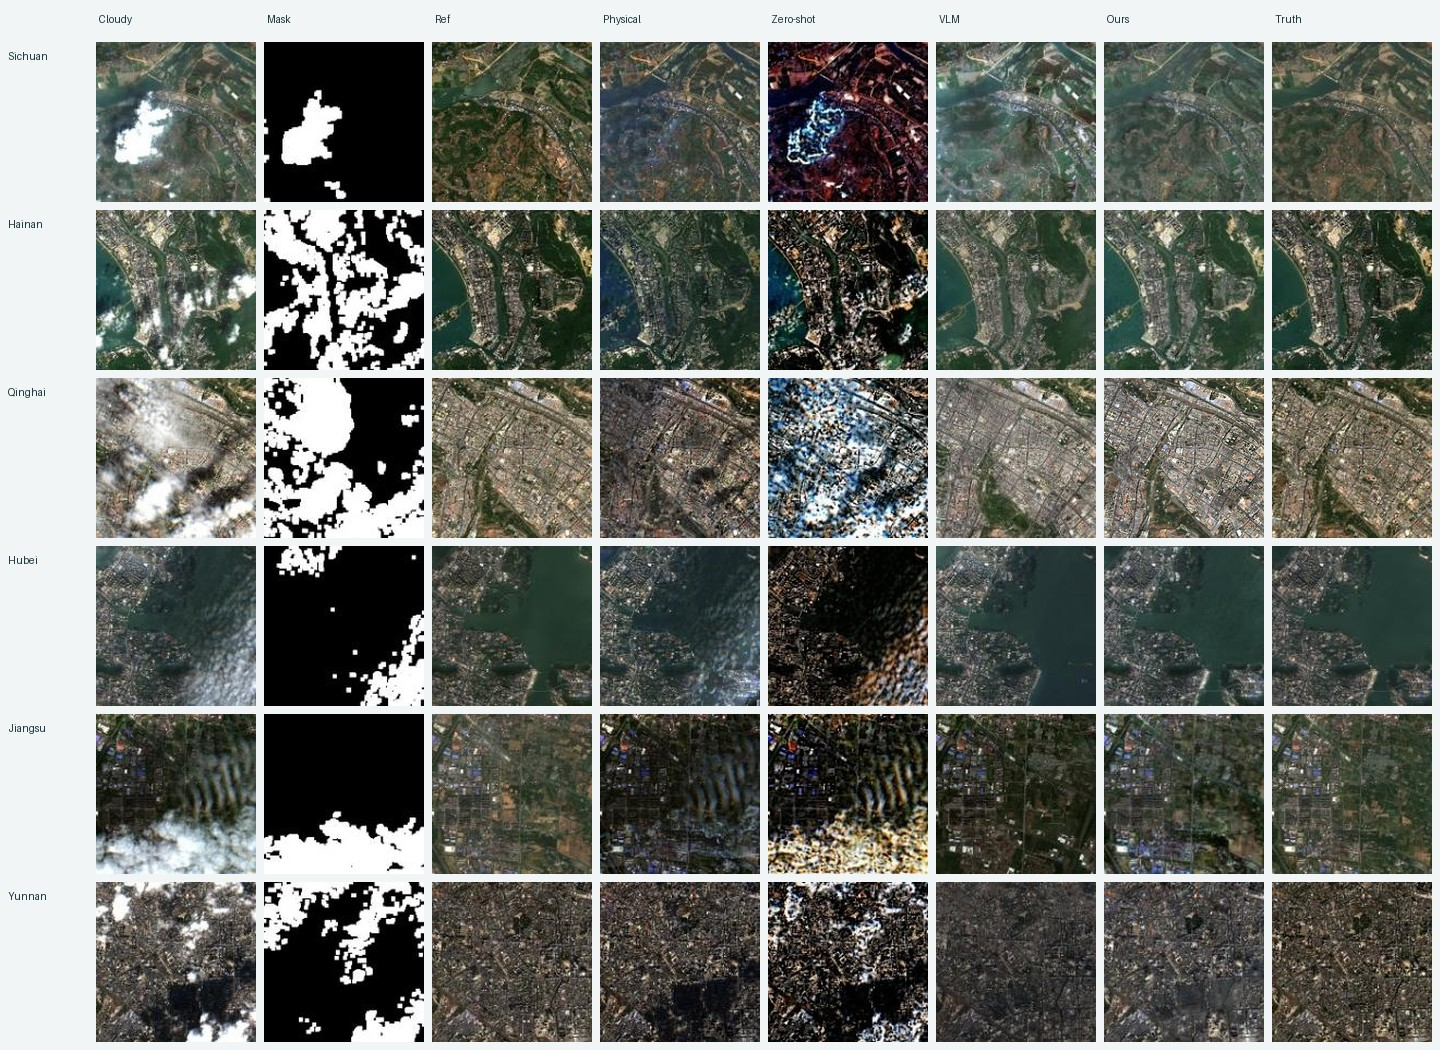
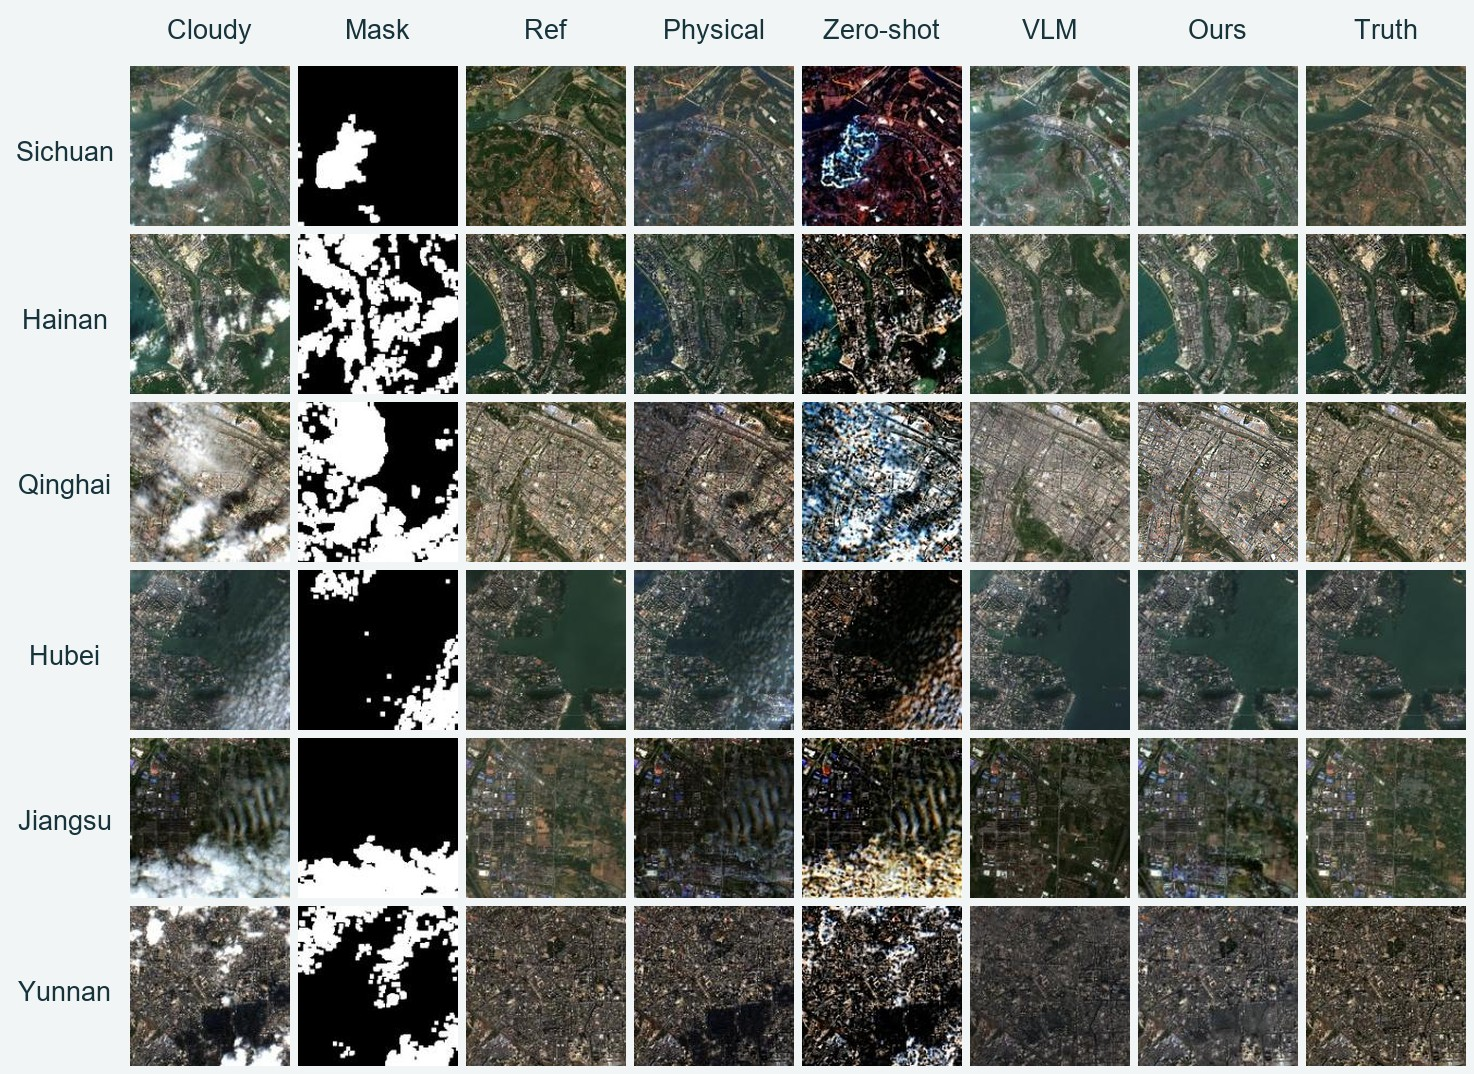
Refine paper page from review comments

diff --git a/docs/index.html b/docs/index.html
@@ -7,6 +7,32 @@
   <title>PhyVLM-CR | Physics-Guided VLM Priors for All-Cloud Removal</title>
   <link rel="stylesheet" href="styles.css">
   <link rel="stylesheet" href="pgcs-alignment.css">
+  <style>
+    .hero { padding-bottom: 50px; }
+    .abstract-section > div > p { text-align: justify; text-justify: inter-word; hyphens: auto; }
+    .method-description { margin-top: 24px; }
+    .metrics { display: block; }
+    .metric-lead { margin: 0 0 18px; }
+    .metric-lead h3 { margin: 6px 0; }
+    .metric-lead p { max-width: none; }
+    .metrics table { min-width: 0; width: 100%; table-layout: fixed; font-size: 13px; }
+    .metrics thead th { white-space: normal; text-align: center; line-height: 1.35; }
+    .metrics tbody td { text-align: center; white-space: nowrap; }
+    .metrics tbody th { text-align: left; }
+    .metrics th, .metrics td { padding: 9px 6px; }
+    .table-note { margin: 12px 0 0; color: var(--muted); font-size: 13px; }
+    .citation-section pre { margin: 0; padding: 23px; overflow-x: auto; border: 1px solid var(--line); border-radius: 7px; background: #f6f8f9; color: #384a55; font: 13px/1.65 Consolas, "Liberation Mono", monospace; }
+    @media (max-width: 640px) {
+      .metrics thead { display: none; }
+      .metrics table, .metrics tbody, .metrics tr, .metrics th, .metrics td { display: block; width: 100%; }
+      .metrics tr { margin-bottom: 16px; border: 1px solid var(--line); background: #fff; }
+      .metrics tbody th { background: #eef3f6; font-weight: 700; }
+      .metrics tbody td { display: block; text-align: left; }
+      .metrics tbody td::before { content: attr(data-label); display: block; color: var(--muted); font-weight: 600; white-space: normal; }
+      .metrics .table-wrap { overflow: visible; }
+      .citation-section pre { font-size: 11px; }
+    }
+  </style>
 </head>
 <body>
   <header class="topbar">
@@ -23,45 +49,31 @@
   <main id="top">
     <section class="hero wrap">
       <h1>Physics-Guided VLM Priors for All-Cloud Removal</h1>
-      <p class="venue">PhyVLM-CR · Research manuscript</p>
+      <p class="venue">IEEE Geoscience and Remote Sensing Letters · 2026</p>
       <p class="authors">Liying Xu, Huifang Li, Huanfeng Shen</p>
       <p class="affiliation">Wuhan University · Wuhan, China</p>
       <div class="actions">
-        <a class="button secondary" href="#abstract">Abstract <span aria-hidden="true">↓</span></a>
+        <a class="button secondary" href="https://ieeexplore.ieee.org/abstract/document/11641653" target="_blank" rel="noopener noreferrer">Paper <span aria-hidden="true">↗</span></a>
         <a class="button secondary" href="https://github.com/Liying-Xu/PhyVLM-CR">Code <span aria-hidden="true">↗</span></a>
         <a class="button secondary" href="PhyVLM_CR6_Colab.ipynb" download>Colab notebook <span aria-hidden="true">↓</span></a>
-      </div>
-      <div class="hero-visual">
-        <img src="assets/results.jpg" alt="Six Sentinel-2 scenes comparing cloudy input, mask, temporal reference, baselines, PhyVLM-CR and clear ground truth" width="1440" height="1050">
-        <span class="image-tag">PAPER FIG. 2 · SIX REAL CLOUD SCENES</span>
       </div>
     </section>
 
     <section id="abstract" class="section abstract-section">
       <div class="reading-width">
         <h2>Abstract</h2>
-        <p>Cloud removal remains a fundamental challenge in optical remote sensing due to heterogeneous cloud degradation. Thin clouds distort surface radiometry through partial transmission, while thick clouds obscure the underlying surface. Existing methods often handle thin-cloud correction and thick-cloud reconstruction separately, requiring explicit cloud-type delineation and causing error accumulation or spatial discontinuities in mixed-cloud scenes. To address this issue, we propose PhyVLM-CR, a physics-guided VLM prior framework for all-cloud removal, which integrates the semantic capability of a Vision-Language Model (VLM) with a physical imaging model. Specifically, the VLM output is incorporated into the estimation of a physical transmission map. The estimated transmission map supports thin-cloud radiometric correction through physical inversion and further provides a continuous weight for balancing current-scene restoration and temporally aligned reference information in low-transmission regions. By coupling the radiometric consistency of the physical model with the semantic and illumination priors of the VLM, PhyVLM-CR achieves physically constrained and semantically informed restoration without explicit cloud-type delineation. Experiments on real-world Sentinel-2 surface reflectance imagery demonstrate that PhyVLM-CR achieves superior visual and quantitative performance compared with existing cloud-removal methods.</p>
-        <div class="affiliations">
-          <p><strong>Affiliations from the manuscript</strong></p>
-          <p><strong>Liying Xu:</strong> School of Resource and Environmental Sciences and the Key Laboratory of Digital Cartography and Land Information Application, Ministry of Natural Resources, Wuhan University, Wuhan, China.</p>
-          <p><strong>Huifang Li:</strong> School of Resource and Environmental, Wuhan University, Wuhan, China.</p>
-          <p><strong>Huanfeng Shen:</strong> School of Resource and Environmental Sciences and the Collaborative Innovation Center for Geospatial Technology, Wuhan University, Wuhan, China.</p>
-        </div>
+        <p>Cloud removal remains a fundamental challenge in optical remote sensing due to heterogeneous cloud degradation. Thin clouds distort surface radiometry through partial transmission, while thick clouds obscure the underlying surface. Existing methods often handle thin-cloud correction and thick-cloud reconstruction separately, requiring explicit cloud-type delineation and causing error accumulation or spatial discontinuities in mixed-cloud scenes. To address this issue, we propose PhyVLM-CR, a <strong>physics-guided VLM prior framework</strong> for all-cloud removal, which integrates the semantic capability of a Vision-Language Model (VLM) with a physical imaging model. Specifically, the VLM output is incorporated into the estimation of a <strong>physical transmission map</strong>. The estimated transmission map supports thin-cloud radiometric correction through physical inversion and further provides a <strong>continuous weight</strong> for balancing current-scene restoration and temporally aligned reference information in low-transmission regions. By coupling the radiometric consistency of the physical model with the semantic and illumination priors of the VLM, PhyVLM-CR achieves physically constrained and semantically informed restoration <strong>without explicit cloud-type delineation</strong>. Experiments on real-world Sentinel-2 surface reflectance imagery demonstrate that PhyVLM-CR achieves superior visual and quantitative performance compared with existing cloud-removal methods.</p>
       </div>
     </section>
 
     <section id="approach" class="section wrap">
-      <div class="section-head"><span class="kicker">01 / APPROACH</span><h2>A generative prior,<br><em>grounded in physics.</em></h2></div>
-      <p class="intro">The VLM prediction is used to infer atmospheric light and transmission, rather than copied directly into the final image. A continuous transmission map balances physical inversion with the observed image and a clear temporal reference.</p>
+      <div class="section-head"><span class="kicker">01 / APPROACH</span><h2>PhyVLM_CR</h2></div>
+      <p class="intro">Because direct VLM predictions can hallucinate, PhyVLM-CR uses them as cognitive priors to estimate physical parameters rather than as the final cloud-removal result.</p>
       <figure class="figure-card">
         <img src="assets/method.png" alt="Three-stage PhyVLM-CR pipeline: VLM cognitive prior acquisition, physics-guided parameter extraction, and unified all-cloud removal" width="1141" height="494" loading="lazy">
-        <figcaption>Paper Fig. 1 · Cognitive prior → physical parameters → unified restoration</figcaption>
+        <figcaption>Overview of the proposed PhyVLM-CR</figcaption>
       </figure>
-      <div class="steps">
-        <div><b>01</b><h3>Acquire</h3><p>Qwen-Image-Edit supplies a semantic cloud-free prediction.</p></div>
-        <div><b>02</b><h3>Translate</h3><p>The prediction helps estimate atmospheric light and transmission.</p></div>
-        <div><b>03</b><h3>Restore</h3><p>Transmission guides physical correction and temporal fusion.</p></div>
-      </div>
+      <p class="method-description">PhyVLM-CR estimates atmospheric light and transmission from the cloudy observation with guidance from the VLM prior. It then combines physical inversion, low-frequency cognitive adjustment, preservation of observed detail, and a radiometrically aligned temporal reference. Transmission continuously controls the balance between restoration from the current image and reference-based reconstruction where the surface is obscured.</p>
     </section>
 
     <section id="results" class="section results-section">
@@ -69,34 +81,42 @@
         <div class="section-head"><span class="kicker">02 / EXPERIMENTS</span><h2>Six scenes.<br><em>One continuous treatment.</em></h2></div>
         <p class="intro">The manuscript evaluates six 2023 Sentinel-2 scenes using the nearest clear observation as ground truth and the second-nearest as the temporal reference. The images below are reproduced from the supplied manuscript.</p>
         <figure class="figure-card dark-card">
-          <img src="assets/results.jpg" alt="Qualitative comparison across Sichuan, Hainan, Qinghai, Hubei, Jiangsu, and Yunnan" width="1440" height="1050" loading="lazy">
-          <figcaption>Paper Fig. 2 · Cloudy · mask · reference · physical baseline · zero-shot baseline · VLM · PhyVLM-CR · truth</figcaption>
+          <a href="assets/results.jpg" target="_blank" rel="noopener noreferrer" aria-label="Open all-cloud removal comparison at full size"><img src="assets/results.jpg" alt="Qualitative comparison across Sichuan, Hainan, Qinghai, Hubei, Jiangsu, and Yunnan" width="1474" height="1074" loading="lazy"></a>
+          <figcaption>All-cloud removal results based on the various methods.</figcaption>
         </figure>
         <div class="metrics">
-          <div class="metric-lead"><span class="kicker">PAPER TABLE II</span><h3>Reported quality</h3><p>PSNR (dB) and SSIM against the clear target. These are manuscript values, not measurements from a new notebook run.</p></div>
+          <div class="metric-lead"><span class="kicker">PAPER TABLE II</span><h3>Reported quality</h3><p>PSNR (dB) / SSIM against the clear target. These are paper values, not measurements from a new notebook run.</p></div>
           <div class="table-wrap"><table>
-            <thead><tr><th>Scene</th><th>Physical</th><th>Zero-shot</th><th>VLM</th><th>PhyVLM-CR</th></tr></thead>
+            <thead><tr><th scope="col">Scene</th><th scope="col">Traditional physical</th><th scope="col">Zero-shot deep learning</th><th scope="col">Vision-Language Model</th><th scope="col">PhyVLM-CR</th></tr></thead>
             <tbody>
-              <tr><th>Sichuan</th><td>17.583 / .5492</td><td>12.450 / .2679</td><td>20.890 / .5706</td><td>22.934 / .8012</td></tr>
-              <tr><th>Hainan</th><td>17.531 / .5556</td><td>12.737 / .2801</td><td>13.995 / .2547</td><td>19.168 / .7490</td></tr>
-              <tr><th>Qinghai</th><td>15.847 / .7698</td><td>9.708 / .3022</td><td>14.456 / .3182</td><td>19.312 / .8606</td></tr>
-              <tr><th>Hubei</th><td>19.701 / .7313</td><td>14.568 / .3042</td><td>18.937 / .5655</td><td>26.435 / .9025</td></tr>
-              <tr><th>Jiangsu</th><td>15.495 / .5258</td><td>11.073 / .2211</td><td>18.324 / .4125</td><td>22.332 / .7922</td></tr>
-              <tr><th>Yunnan</th><td>17.214 / .6522</td><td>11.512 / .3106</td><td>13.229 / .0323</td><td>21.149 / .8176</td></tr>
+              <tr><th scope="row">Sichuan</th><td data-label="Traditional physical">17.583 / 0.5492</td><td data-label="Zero-shot deep learning">12.450 / 0.2679</td><td data-label="Vision-Language Model"><u>20.890</u> / <u>0.5706</u></td><td data-label="PhyVLM-CR"><strong>22.934 / 0.8012</strong></td></tr>
+              <tr><th scope="row">Hainan</th><td data-label="Traditional physical"><u>17.531</u> / <u>0.5556</u></td><td data-label="Zero-shot deep learning">12.737 / 0.2801</td><td data-label="Vision-Language Model">13.995 / 0.2547</td><td data-label="PhyVLM-CR"><strong>19.168 / 0.7490</strong></td></tr>
+              <tr><th scope="row">Qinghai</th><td data-label="Traditional physical"><u>15.847</u> / <u>0.7698</u></td><td data-label="Zero-shot deep learning">9.708 / 0.3022</td><td data-label="Vision-Language Model">14.456 / 0.3182</td><td data-label="PhyVLM-CR"><strong>19.312 / 0.8606</strong></td></tr>
+              <tr><th scope="row">Hubei</th><td data-label="Traditional physical"><u>19.701</u> / <u>0.7313</u></td><td data-label="Zero-shot deep learning">14.568 / 0.3042</td><td data-label="Vision-Language Model">18.937 / 0.5655</td><td data-label="PhyVLM-CR"><strong>26.435 / 0.9025</strong></td></tr>
+              <tr><th scope="row">Jiangsu</th><td data-label="Traditional physical">15.495 / <u>0.5258</u></td><td data-label="Zero-shot deep learning">11.073 / 0.2211</td><td data-label="Vision-Language Model"><u>18.324</u> / 0.4125</td><td data-label="PhyVLM-CR"><strong>22.332 / 0.7922</strong></td></tr>
+              <tr><th scope="row">Yunnan</th><td data-label="Traditional physical"><u>17.214</u> / <u>0.6522</u></td><td data-label="Zero-shot deep learning">11.512 / 0.3106</td><td data-label="Vision-Language Model">13.229 / 0.0323</td><td data-label="PhyVLM-CR"><strong>21.149 / 0.8176</strong></td></tr>
             </tbody>
-          </table></div>
+          </table><p class="table-note">Best results are <strong>bold</strong>; second-best results are <u>underlined</u>. PSNR and SSIM are ranked separately within each scene.</p></div>
         </div>
       </div>
     </section>
 
     <section class="section wrap prompt-section">
-      <div class="section-head"><span class="kicker">03 / ROBUSTNESS</span><h2>The prompt changes.<br><em>The physics remains.</em></h2></div>
-      <p class="intro">The paper compares four Chinese and English prompts on Yunnan. Raw VLM images vary with wording; the final restoration is constrained by transmission-guided fusion.</p>
+      <div class="section-head"><span class="kicker">03 / ROBUSTNESS</span><h2>Prompt Sensitivity Analysis</h2></div>
+      <p class="intro">Across four Chinese and English prompts, the proposed PhyVLM-CR method shows comparatively stable results despite larger changes in the raw VLM outputs.</p>
       <figure class="figure-card"><img src="assets/prompts.jpg" alt="Four prompt variants showing the cloudy scene, VLM output and error, estimated transmission, and final PhyVLM-CR result and error" width="1063" height="692" loading="lazy"><figcaption>Paper Fig. 3 · Prompt sensitivity on the Yunnan scene</figcaption></figure>
     </section>
 
     <section id="code" class="section code-section"><div class="wrap code-grid"><div><span class="kicker">04 / CODE</span><h2>Colab notebook</h2><p>The public CR6 notebook covers Earth Engine scene collection, Qwen cognitive-prior acquisition, physics-guided restoration, evaluation, and export.</p><a class="button light" href="PhyVLM_CR6_Colab.ipynb" download>Download notebook <span aria-hidden="true">↗</span></a></div><div class="code-notes"><div><span>01</span><p>Open the notebook in Google Colab.</p></div><div><span>02</span><p>Add <code>EE_PROJECT_ID</code> and <code>DASHSCOPE_API_KEY</code> to Colab Secrets and grant access.</p></div><div><span>03</span><p>Run cells in order. Earth Engine and DashScope access are required.</p></div></div></div></section>
-    <section id="citation" class="section citation-section reading-width"><h2>Citation</h2><p>Xu, L., Li, H., and Shen, H. <em>Physics-Guided VLM Priors for All-Cloud Removal.</em> Manuscript. Publication details will be added when available.</p></section>
+    <section id="citation" class="section citation-section reading-width"><h2>Citation</h2><pre><code>@article{Xu_2026,
+  title={Physics-Guided VLM Priors for All-Cloud Removal},
+  author={Xu, Liying and Li, Huifang and Shen, Huanfeng},
+  journal={IEEE Geoscience and Remote Sensing Letters},
+  volume={23},
+  pages={6017305--6017305},
+  year={2026},
+  doi={10.1109/LGRS.2026.3720251}
+}</code></pre></section>
   </main>
   <footer class="wrap"><span>PhyVLM-CR · Physics-Guided VLM Priors for All-Cloud Removal</span><a href="#top">Back to top ↑</a></footer>
 </body>

diff --git a/README.md b/README.md
@@ -1,6 +1,6 @@
 # PhyVLM-CR
 
-Code and project page for **Physics-Guided VLM Priors for All-Cloud Removal** by Liying Xu, Huifang Li, and Huanfeng Shen.
+Code and project page for **Physics-Guided VLM Priors for All-Cloud Removal** by Liying Xu, Huifang Li, and Huanfeng Shen, published in *IEEE Geoscience and Remote Sensing Letters* (2026). [Paper](https://ieeexplore.ieee.org/abstract/document/11641653).
 
 ## Colab notebook
 
@@ -27,4 +27,14 @@ The code is available under the [Apache License 2.0](LICENSE). Figures reproduce
 
 ## Citation
 
-Xu, L., Li, H., and Shen, H. *Physics-Guided VLM Priors for All-Cloud Removal*. Manuscript supplied with this release. Please update the citation when publication details are available.
+```bibtex
+@article{Xu_2026,
+  title={Physics-Guided VLM Priors for All-Cloud Removal},
+  author={Xu, Liying and Li, Huifang and Shen, Huanfeng},
+  journal={IEEE Geoscience and Remote Sensing Letters},
+  volume={23},
+  pages={6017305--6017305},
+  year={2026},
+  doi={10.1109/LGRS.2026.3720251}
+}
+```
